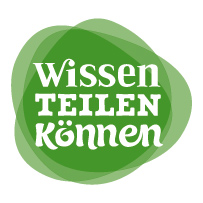
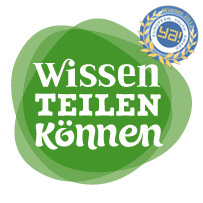
v1.0.0

Changed region(s): [[0.6798, 0.0, 1.0, 0.3547]]

diff --git a/index.html b/index.html
@@ -88,34 +88,53 @@
             </header>
             <section>
               <h3><img class="content-image" src="img/movlib.jpg" height="203" width="203" title="MovLib, the free movie library">MovLib, the free movie library</h3>
-              <p>Lorem ipsum dolor sit amet, consectetur adipiscing elit. Aliquam sodales urna non odio egestas tempor. Nunc vel vehicula ante. Etiam bibendum iaculis libero, eget molestie nisl pharetra in. In semper consequat est, eu porta velit mollis nec. Curabitur posuere enim eget turpis feugiat tempor. Etiam ullamcorper lorem dapibus velit suscipit ultrices. Proin in est sed erat facilisis pharetra.</p>
+              <p>MovLib is a free and open-source online movie database which can be edited by anybody. There is no serious free (in the sense of Creative Commons), international database with structured data about movies and series. The aim is not only to develop a movie database, but to also provide the user generated movie data via an API (OpenData) and provide a basis for other projects in this area. Check out our <a href="https://github.com/movlib/" target="_blank">Github</a> Repository!</p>
+              
+              <p>Tags: Free Movie Database, Creative Commons, OpenData, PHP, OpenSource</p>
               <div class="clear"></div>
             </section>
             <section>
               <h3><img class="content-image" src="img/qoop.jpg" height="203" width="203" title="qoop.io">qoop.io</h3>
-              <p>Lorem ipsum dolor sit amet, consectetur adipiscing elit. Aliquam sodales urna non odio egestas tempor. Nunc vel vehicula ante. Etiam bibendum iaculis libero, eget molestie nisl pharetra in. In semper consequat est, eu porta velit mollis nec. Curabitur posuere enim eget turpis feugiat tempor. Etiam ullamcorper lorem dapibus velit suscipit ultrices. Proin in est sed erat facilisis pharetra.</p>
+              <p>Qoop.io should become a mobile dating application for Android, iOS and Windows Phone. There should not be any premium model behind it. It should be free to use for everyone (ad sponsored). The application is mostly written in with web technologies (HTML5, CSS3 and JavaScript) using Cordova in order to keep the development costs low. If this project is a success native applications should follow.</p>
+              
+              <p>Tags: Ruby on Rails, Dating Community, Android, iOS, Windows Phone</p>
               <div class="clear"></div>
             </section>
             <p>The following are some projects I've done in the past.</p>
             <section>
-              <h3><img class="content-image" src="img/wtk.jpg" height="203" width="203" title="Wissen Teilen Können">Wissen Teilen Können</h3>
-              <p>Lorem ipsum dolor sit amet, consectetur adipiscing elit. Aliquam sodales urna non odio egestas tempor. Nunc vel vehicula ante. Etiam bibendum iaculis libero, eget molestie nisl pharetra in. In semper consequat est, eu porta velit mollis nec. Curabitur posuere enim eget turpis feugiat tempor. Etiam ullamcorper lorem dapibus velit suscipit ultrices. Proin in est sed erat facilisis pharetra.</p>
+              <h3><img class="content-image" src="img/wtk.jpg" height="203" width="203" title="Wissen Teilen Können">Wissen • Teilen • Können</h3>
+              <p>Wissen • Teilen • Können is a web-platform that enables people to find others in their field of interest, and as a next step, meet each other in real life to help exchange, learn and develop certain skills together.</p>
+              <p>Together with my team I won the European Youth Award 2012 (<a href="http://eu-youthaward.org/" target="_blank">EYA</a>) with this project.</p>
+              
+               <p>Tags: Ruby on Rails, Learning Community, EYA2012</p>
               <div class="clear"></div>
             </section>
             <section>
               <h3><img class="content-image" src="img/snups.jpg" height="203" width="203" title="Snups">Snups & Snups Mobile</h3>
-              <p>Lorem ipsum dolor sit amet, consectetur adipiscing elit. Aliquam sodales urna non odio egestas tempor. Nunc vel vehicula ante. Etiam bibendum iaculis libero, eget molestie nisl pharetra in. In semper consequat est, eu porta velit mollis nec. Curabitur posuere enim eget turpis feugiat tempor. Etiam ullamcorper lorem dapibus velit suscipit ultrices. Proin in est sed erat facilisis pharetra.</p>
+              <p>The idea behind Snups was to build a photo database in a playful manner which could have been used for artistic inspiration. We decided not to go the “normal” way a photo community usually works, where someone can add photos and assign tags to them. If you play Snups on your mobile device, you get a topic. Your job is it to shoot a photo according to the topic, as creative as possible. The photo can then be rated by other users.</p>
+              
+              <p>Tags: Ruby on Rails, Photo Community, Android App</p>
               <div class="clear"></div>
             </section>
-            <p>My bachelor theses.</p>
+            <p>My bachelor theses. Both bachelor theses are written in German. If you are interested in reading one of them feel fre to contact me.</p>
             <section>
-              <h3><img class="content-image" src="img/api.jpg" height="203" width="203" title="???">Bachelor thesis 1: ???</h3>
-              <p>Lorem ipsum dolor sit amet, consectetur adipiscing elit. Aliquam sodales urna non odio egestas tempor. Nunc vel vehicula ante. Etiam bibendum iaculis libero, eget molestie nisl pharetra in. In semper consequat est, eu porta velit mollis nec. Curabitur posuere enim eget turpis feugiat tempor. Etiam ullamcorper lorem dapibus velit suscipit ultrices. Proin in est sed erat facilisis pharetra.</p>
+              <h3><img class="content-image" src="img/api.jpg" height="203" width="203" title="Rails vs. Sinatra for RESTful Ruby Web APIs">Bachelor thesis 1: Rails vs. Sinatra for RESTful Ruby Web APIs</h3>
+              <p>In this document the development of RESTful Web APIs is reviewed. To accomplish this, two Ruby frameworks are compared: The Rails framework and the Sinatra framework. The aim of this comparison is to find advantages and disadvantages of the Rails Framework compared to the Sinatra Framework when it comes to develop such an API. Not only differences regarding the implementation of individual components are reviewed but also the performance of these implementations.</p>
+
+              <p>A short introduction to the basics of Web APIs is followed by a comparison of both frameworks in terms of structure and existing components. Afterwards selected features are implemented. These features include: object relationship mapping, routing, support of different representations, pagination and digest authentication. Each chapter is concluded by a brief evaluation. At the end performance measurements are performed on the two implementations. These measurements include response-time, newly created objects per request and the number of runs of the garbage collection.
+              </p>
+              
+              <p>Tags: Ruby on Rails, Sinatra, REST, RESTful API, Performance, Garbage Collection</p>
               <div class="clear"></div>
             </section>
             <section>
-              <h3><img class="content-image" src="img/stack.jpg" height="203" width="203" title="???">Bachelor thesis 2: ???</h3>
-              <p>Lorem ipsum dolor sit amet, consectetur adipiscing elit. Aliquam sodales urna non odio egestas tempor. Nunc vel vehicula ante. Etiam bibendum iaculis libero, eget molestie nisl pharetra in. In semper consequat est, eu porta velit mollis nec. Curabitur posuere enim eget turpis feugiat tempor. Etiam ullamcorper lorem dapibus velit suscipit ultrices. Proin in est sed erat facilisis pharetra.</p>
+              <h3><img class="content-image" src="img/stack.jpg" height="203" width="203" title="Comparison of various Server Setups for Ruby on Rails Applications">Bachelor thesis 2: Comparison of various Server Setups for Ruby on Rails Applications</h3>
+              <p>In this paper, various server components for Ruby on Rails applications are compared according to their performance in a production environment and the resulting consumption of resources. First the suitability of Apache2 and Nginx as an asset server and reverse proxy is compared. Afterwards different Ruby application-servers, namely Mongrel, Thin, Unicorn, Passenger and Trinidad, are tested.</p>
+              
+              <p>A short introduction to the basics on this topic is followed by a comparison of various Ruby interpreters. In the following chapter various server architectures are discussed. Afterwards the comparison of suitable asset servers is performed by measuring the maximum achievable HTTP response rate and the resulting memory consumption. Also, for the subsequent comparison of the Ruby application servers, using different Ruby interpreters, the maximum attainable HTTP response rate and the memory consumption are measured. In addition, the average load per minute is determined which indicates the CPU load.
+              </p>
+              
+              <p>Tags: Ruby, Server, Performance, Resources</p>
               <div class="clear"></div>
             </section>
           </article>
@@ -164,15 +183,13 @@
            </div>
         </footer>
       </div>
-      <!--
+      
       <script src="//ajax.googleapis.com/ajax/libs/jquery/1.10.1/jquery.min.js"></script>
       <script>window.jQuery || document.write('<script src="js/vendor/jquery-1.10.1.min.js"><\/script>')</script>
-      -->
-      <script src="js/vendor/jquery-1.10.1.min.js"></script>
       <script src="js/pushy.min.js"></script>
-      <script src="js/main.js"></script>
+      <script src="js/main.min.js"></script>
       <script>
-				var _gaq=[['_setAccount','UA-XXXXX-X'],['_trackPageview']];
+				var _gaq=[['_setAccount','UA-10561714-10'],['_trackPageview']];
 				(function(d,t){var g=d.createElement(t),s=d.getElementsByTagName(t)[0];
 				g.src=('https:'==location.protocol?'//ssl':'//www')+'.google-analytics.com/ga.js';
 				s.parentNode.insertBefore(g,s)}(document,'script'));

diff --git a/js/main.min.js b/js/main.min.js
@@ -1,0 +1,1 @@
+$(function(){function e(){function B(){s=12;o=150;u=150;f=0;c=9;h=Math.pow(2,c)+1;d=2;_=Math.PI*2*h/(1+h);T=-o;N=n+o;C=i/2-50;k=i/2+50;M=.67*Math.PI*2;stepsPerSegment=Math.floor(800/s);P=100;H=20;D=.25;m="#000000";y="#333333";w=1;I();$(window).bind("resize",F)}function F(){$("#headergen").attr("width",window.innerWidth+"px");$("#headergen").attr("height",window.innerHeight+"px");I()}function I(){v=0;t.setTransform(1,0,0,1,0,0);t.clearRect(0,0,n,i);R();S=q(c);O=0;if(p){clearInterval(p)}p=setInterval(U,1e3/60)}function q(e){var t,n,i;var s,o,u;var f,l,c;var h;var p;var d;var v,m;var y=32;var w=.5;s=255;o=102;u=0;t=193;n=59;i=0;a=D;var E=z(e);p=[];m=E.length;for(v=0;v<m;v++){h=E[v];r=Math.floor(t+h*(s-t));g=Math.floor(n+h*(o-n));b=Math.floor(i+h*(u-i));var S="rgba("+r+","+g+","+b+","+a+")";p.push(S)}return p}function R(){var e;var t,n,r,i;var a;l=[];for(e=0;e<s;e++){maxR=u+Math.random()*(o-u);minR=f*maxR;var h={centerX:T+e/(s-1)*(N-T),centerY:C+e/(s-1)*(k-C),maxRad:maxR,minRad:minR,phase:e/(s-1)*M,pointArray:z(c)};l.push(h)}}function U(){var e;var n,r;var i;var s=l.length;var o;var u;var a,f;var c=.75;var v,m;var g,y,b;var E,x,T;for(var N=0;N<d;N++){i=O/(h-1)*_;t.globalCompositeOperation="lighter";t.lineJoin="miter";t.strokeStyle=S[O];t.lineWidth=w;t.beginPath();a=l[0].centerX;f=l[0].centerY;g=l[0].minRad+l[0].pointArray[O]*(l[0].maxRad-l[0].minRad);E=l[0].phase;v=a+c*g*Math.cos(i+E);m=f+g*Math.sin(i+E);t.moveTo(v,m);for(e=0;e<s-1;e++){y=l[e].minRad+l[e].pointArray[O]*(l[e].maxRad-l[e].minRad);b=l[e+1].minRad+l[e+1].pointArray[O]*(l[e+1].maxRad-l[e+1].minRad);x=l[e].phase;T=l[e+1].phase;for(j=0;j<stepsPerSegment;j++){o=j/(stepsPerSegment-1);u=.5-.5*Math.cos(o*Math.PI);a=l[e].centerX+o*(l[e+1].centerX-l[e].centerX);f=l[e].centerY+u*(l[e+1].centerY-l[e].centerY);g=y+u*(b-y);E=x+u*(T-x);v=a+c*g*Math.cos(i+E);m=f+g*Math.sin(i+E);t.lineTo(v,m)}}t.stroke();O++;if(O>h-1){clearInterval(p);p=null;break}}}function z(e){var t={};var n=[];t.first={x:0,y:1};var r={x:1,y:1};var i=1;var s=1;var o;var u;var a,f,l;var c;var h=.5;t.first.next=r;for(var p=0;p<e;p++){o=t.first;while(o.next!=null){u=o.next;a=u.x-o.x;f=.5*(o.x+u.x);l=.5*(o.y+u.y);l+=a*(Math.random()*2-1);var d={x:f,y:l};if(l<i){i=l}else if(l>s){s=l}d.next=u;o.next=d;o=u}}if(s!=i){var v=1/(s-i);o=t.first;while(o!=null){o.y=v*(o.y-i);n.push(o.y);o=o.next}}else{o=t.first;while(o!=null){o.y=1;n.push(o.y);o=o.next}}return n}if(!Modernizr.canvas){return}$("#headergen").attr("width",window.innerWidth+"px");$("#headergen").attr("height",window.innerHeight+"px");var e=document.getElementById("headergen");var t=e.getContext("2d");var n=e.width;var i=e.height;var s;var o;var u;var f;var l;var c;var h;var p;var d;var v;var m,y;var w;var E;var S;var x;var T,N,C,k;var L,A;var O;var M;var _;var D;var P;var H;B()}function t(){e();$(".js-remove").remove();$(".js-hidden").attr("class","js-show");$("#contact-form-submit").click(function(){$("#contact-form-msg").html("");$("#contact-form-msg").attr("class","");$("#contact-form-submit").html('sending message <img src="img/load.gif" title="loading.."/>');$.post("send.php",$("#contact-form").serialize(),function(e){if(e==="success"){$("#contact-form-msg").attr("class","success");$("#contact-form-msg").html('<i class="icon-ok-sign"></i> Thank you for your message!')}else{$("#contact-form-msg").attr("class","error");if(e==="no_name"){$("#contact-form-msg").html('<i class="icon-bolt"></i> Please enter your name to send this message!')}else if(e==="no_mail"){$("#contact-form-msg").html('<i class="icon-bolt"></i> Please enter an valid email address to send this message!')}else if(e==="no_subject"){$("#contact-form-msg").html('<i class="icon-bolt"></i> Please enter a subject to send this message!')}else if(e==="no_message"){$("#contact-form-msg").html('<i class="icon-bolt"></i> Please enter a message!')}}$("#contact-form-submit").html('send message <i class="icon-circle-arrow-right"></i>')});return false});$("#menu li:first").attr("class","active");$("#menu-mobile ul").remove();["top","about","work","contact"].forEach(function(e,t){$("."+e).click(function(t){$("html, body").stop().animate({scrollTop:$("#"+e).offset().top-38},500);t.preventDefault()})});var t,n=$("#menu"),r=n.outerHeight(),i=n.find("a"),s=i.map(function(){var e=$($(this).attr("href"));if(e.length){return e}});$(window).scroll(function(){var e=$(this).scrollTop()+r;var n=s.map(function(){if($(this).offset().top<e)return this});n=n[n.length-1];var o=n&&n.length?n[0].id:"";if(t!==o){t=o;i.parent().removeClass("active").end().filter("[href=#"+o+"]").parent().addClass("active")}})}window.onload=t}())

diff --git a/css/main.css b/css/main.css
@@ -39,6 +39,7 @@ hr {
 /* ################################ */
 #container {
   height: 40px;
+	overflow:hidden;
 }
 .navigation {
 	width: 100%;
@@ -55,7 +56,6 @@ hr {
 	background: linear-gradient(to bottom,  #303030 0%,#131313 100%);
 	filter: progid:DXImageTransform.Microsoft.gradient( startColorstr='#303030', endColorstr='#131313',GradientType=0 );
 	z-index: 999;
-	overflow:hidden;
 }
 
 #menu { display: none; }
@@ -214,10 +214,10 @@ header, #header, #headergen { height: 100%; width: 100%; }
 
 #main-container section {
 	background-image:url(../img/bg/triangles.png);
-	-webkit-border-radius: 10px;
-	-moz-border-radius: 10px;
-	border-radius: 10px;
-	border: 1px solid #C13B00;
+	-webkit-border-radius: 3px;
+	-moz-border-radius: 3px;
+	border-radius: 3px;
+	border: 1px solid #6f2200;
 	padding: 5px 30px;
 	margin-bottom: 25px;
 }
@@ -252,9 +252,9 @@ header, #header, #headergen { height: 100%; width: 100%; }
 	display: block;
 	margin: 0 auto;
 	text-align: center;
-	-webkit-border-radius: 10px;
-	-moz-border-radius: 10px;
-	border-radius: 10px;
+	-webkit-border-radius: 3px;
+	-moz-border-radius: 3px;
+	border-radius: 3px;
 	border: 3px solid #111;
 }
 
